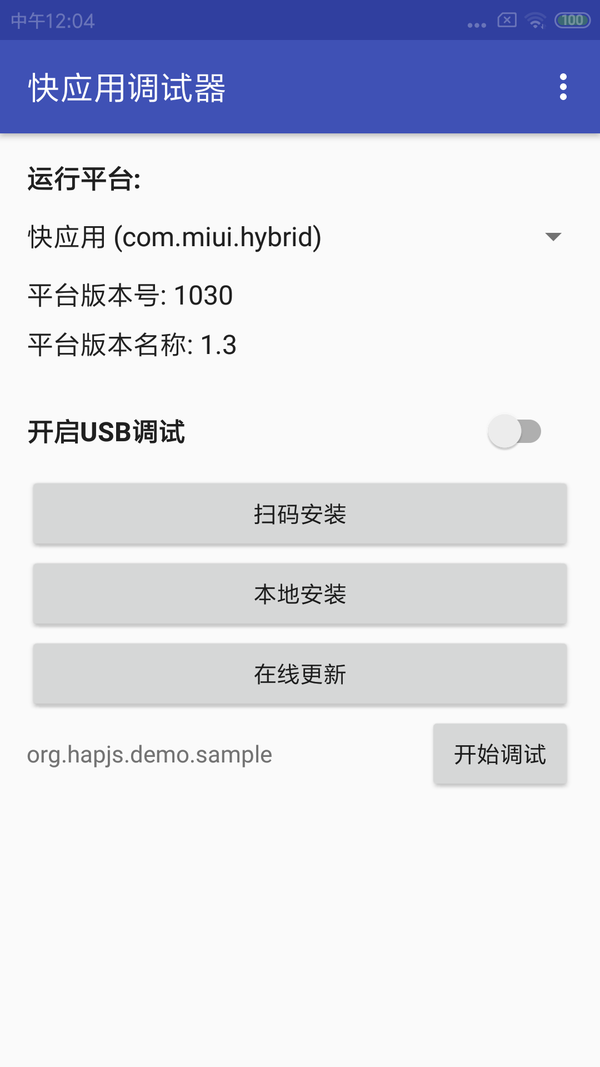
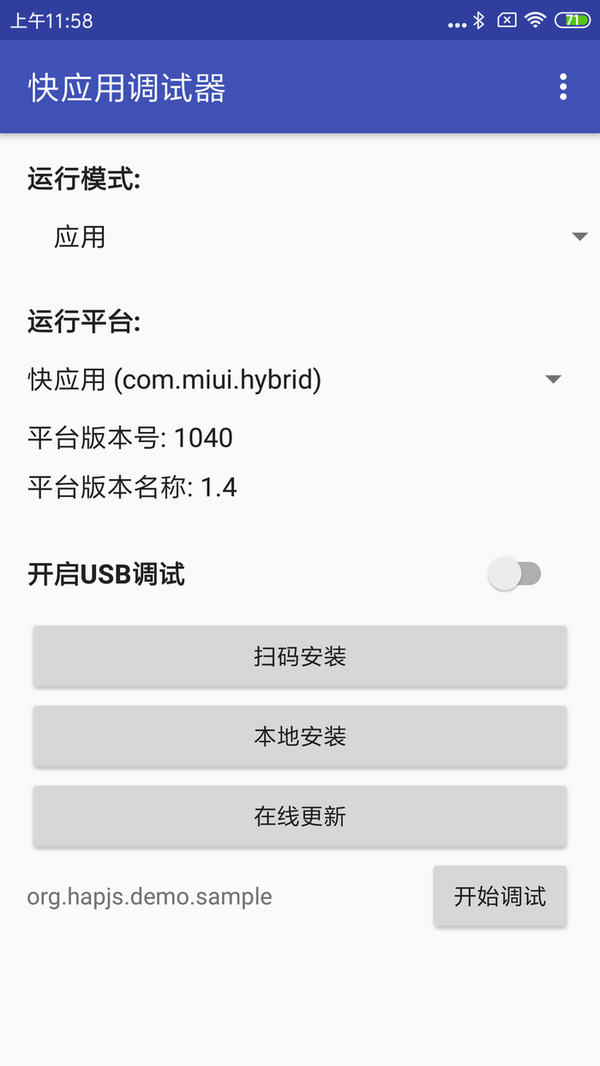
升级readme及添加changelog

diff --git a/CHANGELOG.md b/CHANGELOG.md
@@ -1,3 +1,41 @@
+# v1.4.0
+此版本配套快应用平台版本为v1040
+
+## 框架
+
+- 新增蓝牙功能示例
+- 新增支持RPK分包加载示例
+- 新增系统闹钟设置示例
+- 新增系统铃声示例
+
+## 组件
+
+- 新增 `camera` 组件示例
+- 为 `tab-content` 组件增加 `scrollable` 属性示例
+- 为 `refresh` 组件增加 `type` 属性示例
+- 为 `audio` 组件增加 `streamType` 属性示例
+- 为 `media` 组件增加选取图片示例
+- 为 `list` 组件增加 `scrollend` 、`scrolltouchup` 事件示例
+- 为 `canvas` 组件增加 `setLineDash` 方法和 `lineDashOffset` 属性示例
+- 为 `map` 组件增加指南针、俯视(3D)、缩放、拖动、旋转等功能
+
+## 接口
+
+- 为 `device` 接口，增加获取设备序列号方法示例
+- 为 `media` 接口，增加 `previewImage` 方法示例
+- 为 `prompt` 接口，增加 `showLoading` 方法和 `hideLoading` 方法示例
+- 为 `image` 接口，增加 `getExifAttributes` 方法示例
+- 为 `media` 接口的 `pickImages` 方法，增加支持选择多张图片示例
+- 为 `router` 接口 `push` 方法，跳转到短信发送页面时，可以插入短信内容示例
+
+## 样式
+
+- 增加 通用样式支持 `z-index`示例
+- 增加 `flexbox` 容器下的元素支持 `margin:auto`示例
+- 增加 `text` 组件，支持 `text-indent` 段落缩进示例
+- 增加 `video、image` 组件支持 `object-fit` 样式示例
+- 增加 `flex-direction` 属性，支持 `row-reverse` 和 `column-reverse`示例
+
 # v1.3.0
 此版本配套快应用平台版本为v1030
 ## 框架

diff --git a/README.md b/README.md
@@ -1,4 +1,4 @@
-# Sample 
+# Sample
 
 [快应用](https://www.quickapp.cn/)官方示例项目
 
@@ -6,14 +6,14 @@
 [![hap-toolkit version][hap-toolkit-image]][hap-toolkit-url]
 
 
-[node-image]: https://img.shields.io/badge/node.js-%3E=_6-green.svg?style=flat-square
+[node-image]: https://img.shields.io/badge/node.js-%3E=_8-green.svg?style=flat-square
 [node-url]: http://nodejs.org/download/
-[hap-toolkit-image]: https://img.shields.io/badge/hap--toolkit-%3E=_0.1-blue.svg
+[hap-toolkit-image]: https://img.shields.io/badge/hap--toolkit-%3E=_0.2-blue.svg
 [hap-toolkit-url]: https://www.npmjs.com/package/hap-toolkit
 
 ## 简介
 2018年3月份，由小米，中兴，华为等10家厂商成立了快应用联盟，共同发布了快应用的标准。
-自此我们可以采用一套标准去开发应用，而无缝的运行在各个手机厂商上。一次开发，一次上传，自动分发到所有联盟厂商的设备。
+自此我们可以采用一套标准去开发应用，无缝的运行在各个手机厂商上。一次开发，一次上传，自动分发到所有联盟厂商的设备
 
 快应用官方是采用前端的技术栈来开发的，此项目为示例项目,帮助开发者快速入门快应用的开发
 
